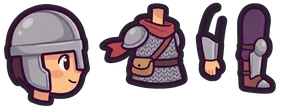
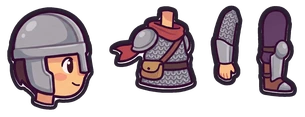
Fix hollow chainmail sleeves on iron and frostsilver armour
Those renders left the sleeve's outer edge without ink, so the piece
never closed and its pale chainmail was cut away. Pieces are now
everything inside their paper border (found from the ink, limited to
the piece's own shape so ghost blobs stay out); the outline redraw
still replaces the border.

Claude-Session: https://claude.ai/code/session_011STHFHW1H3N9pF5E9tv6GM

Changed region(s): [[0.0, 0.0273, 0.9964, 0.9818]]

diff --git a/index.html b/index.html
@@ -1120,12 +1120,12 @@ const PAINT={armor:{}};
 const RIG={head:[0,0,108,107,52.8,93.4],torso:[110,0,101,98,62.3,16.0],arm:[213,0,43,91,19.9,12.9],leg:[258,0,49,103,22.3,14.4],helm:[309,0,73,81,6.6,6.6]};
 // armor_<metal>.webp: that metal's set drawn on the character (head wearing the helmet, torso, arm, leg), same layout as RIG;
 // a piece whose metal has no painted version tints the plain part instead
-const ARMOR_RIG={cu:{head:[0,0,101,102,48.1,91.3],torso:[103,0,95,92,63.1,14.3],arm:[200,0,41,85,23.1,12.0],leg:[243,0,43,97,21.2,12.8]},
-  au:{head:[0,0,105,116,62.3,106.2],torso:[107,0,94,92,61.4,14.3],arm:[203,0,40,85,22.7,12.1],leg:[245,0,48,97,22.9,13.1]},
-  fe:{head:[0,0,94,110,42.1,99.6],torso:[96,0,95,92,61.4,13.6],arm:[193,0,37,84,23.6,11.9],leg:[232,0,47,97,22.4,12.7]},
-  fr:{head:[0,0,90,119,44.7,110.4],torso:[92,0,98,92,59.5,13.1],arm:[192,0,42,84,31.4,12.2],leg:[236,0,45,97,20.0,12.3]},
-  ik:{head:[0,0,90,102,44.5,92.2],torso:[92,0,97,92,63.5,12.7],arm:[191,0,41,85,22.4,12.0],leg:[234,0,46,97,22.6,12.6]},
-  em:{head:[0,0,95,125,48.4,116.1],torso:[97,0,100,92,62.0,13.4],arm:[199,0,44,84,23.9,12.3],leg:[245,0,45,97,20.3,12.3]}};
+const ARMOR_RIG={cu:{head:[0,0,104,105,49.7,90.7],torso:[106,0,97,99,63.6,16.3],arm:[205,0,45,91,25.0,14.0],leg:[252,0,48,103,23.9,15.0]},
+  au:{head:[0,0,111,123,65.2,108.7],torso:[113,0,100,99,64.2,16.8],arm:[215,0,45,91,25.4,14.7],leg:[262,0,53,103,25.7,15.6]},
+  fe:{head:[0,0,101,117,45.4,102.6],torso:[103,0,100,99,64.2,16.2],arm:[205,0,43,91,26.3,14.4],leg:[250,0,53,103,25.1,15.1]},
+  fr:{head:[0,0,96,122,46.2,109.4],torso:[98,0,105,99,64.3,15.1],arm:[205,0,48,91,34.1,14.5],leg:[255,0,51,103,22.6,14.4]},
+  ik:{head:[0,0,91,105,45.1,91.2],torso:[93,0,101,98,62.8,16.5],arm:[196,0,47,91,25.2,15.7],leg:[245,0,51,104,25.3,16.5]},
+  em:{head:[0,0,102,132,51.6,118.7],torso:[104,0,106,99,64.9,16.1],arm:[212,0,49,91,26.7,14.7],leg:[263,0,51,103,23.0,14.7]}};
 function paintedPlayer(eq,met){const P=PAINT.player,c=mk(192*9,288),g=c.getContext('2d');
   const piece=(k,slot,dark)=>{const m=slot&&met[slot],R=m&&PAINT.armor[m]&&ARMOR_RIG[m][k],A=R&&PAINT.armor[m],r=R||RIG[k],[x,y,w,h]=r,p=mk(w,h),q=p.getContext('2d');q.drawImage(A||P.img,x,y,w,h,0,0,w,h);
     const col=!A&&slot&&eq[slot];

diff --git a/tools/art/build.py b/tools/art/build.py
@@ -129,16 +129,27 @@ def tintmask(k, im):
     else: m = np.zeros_like(al)
     return m & al
 
-def inked_pieces(img, n=4, grow=2):
-    """Split a parts sheet into its n pieces, left to right, each cut out as exactly its filled ink outline (plus a couple of
-    pixels of anti-aliasing), since restyle() replaces everything outside the ink anyway. This ignores the render's border,
-    its soft shadows and the blurry ghost blobs image models sometimes add, and keeps pale fills (chainmail) that are close
-    to the background grey. Returns (piece, (x, y) of its top-left in the render)."""
+def hull(mask):
+    """Filled convex hull of a mask."""
+    from scipy.spatial import ConvexHull
+    from PIL import ImageDraw
+    ys, xs = np.where(mask); pts = np.c_[xs, ys]; h = ConvexHull(pts)
+    im = Image.new('L', (mask.shape[1], mask.shape[0]), 0); ImageDraw.Draw(im).polygon([tuple(p) for p in pts[h.vertices]], fill=1)
+    return np.asarray(im).astype(bool)
+
+def inked_pieces(img, n=4, reach=90):
+    """Split a parts sheet into its n pieces, left to right. Pieces are found by their ink (so the blurry ghost blobs image
+    models sometimes add, which have none, are skipped); each piece is then everything inside its paper border, which also
+    closes edges the render left without ink (pale chainmail). restyle() replaces the border afterwards.
+    Returns (piece, (x, y) of its top-left in the render)."""
     a = np.asarray(img.convert('RGB')).astype(int); ink = a.max(axis=2) < 90
-    core = ndimage.binary_fill_holes(ndimage.binary_closing(ink, iterations=2))
+    bg = np.median(np.concatenate([a[0], a[-1], a[:, 0], a[:, -1]]), axis=0); fg = np.abs(a - bg).max(axis=2) >= 16
+    core = ndimage.binary_fill_holes(ndimage.binary_closing(np.pad(ink, 8), iterations=8))[8:-8, 8:-8]
     lab, m = ndimage.label(core); sz = ndimage.sum(core, lab, range(1, m + 1)); out = []
     for k in np.argsort(-sz)[:n] + 1:
-        mask = ndimage.binary_dilation(lab == k, iterations=grow)
+        c = lab == k; near = ndimage.binary_fill_holes(ndimage.binary_dilation(c, iterations=reach // 2) & fg)
+        far = ndimage.binary_fill_holes(ndimage.binary_dilation(c, iterations=reach) & fg)  # closes wide pale areas
+        mask = (far & hull(near)) | ndimage.binary_dilation(c, iterations=2)  # but no further out than the piece's own shape
         ys, xs = np.where(mask); sl = (slice(ys.min(), ys.max() + 1), slice(xs.min(), xs.max() + 1))
         out.append(((xs.min(), ys.min()), Image.fromarray(np.dstack([a.astype(np.uint8), (mask * 255).astype(np.uint8)])[sl], 'RGBA')))
     return [(im, o) for o, im in sorted(out, key=lambda t: t[0][0])]
@@ -151,7 +162,7 @@ ARMOR_PIV = {'cu': {'head': (331, 749), 'torso': (954, 371), 'arm': (1313, 368),
              'ik': {'head': (350, 760), 'torso': (985, 360), 'arm': (1380, 375), 'leg': (1698, 360)},
              'em': {'head': (368, 830), 'torso': (1045, 375), 'arm': (1445, 370), 'leg': (1733, 370)}}
 HEAD_FIX = {'fe': 1.15}  # renders that drew the head small for the torso
-BASE_H = {'head': 625, 'torso': 563, 'arm': 509, 'leg': 598}  # base part heights inside their ink outline in parts.png, so armour pieces match their size
+BASE_H = {'head': 669, 'torso': 608, 'arm': 553, 'leg': 643}  # base part heights in parts.png (paper border included), so armour pieces match their size
 
 def armor(img, m):
     """armor_<m>.webp: helmeted head, torso, arm, leg (ink only, no tint mask); prints the ARMOR_RIG entry."""
